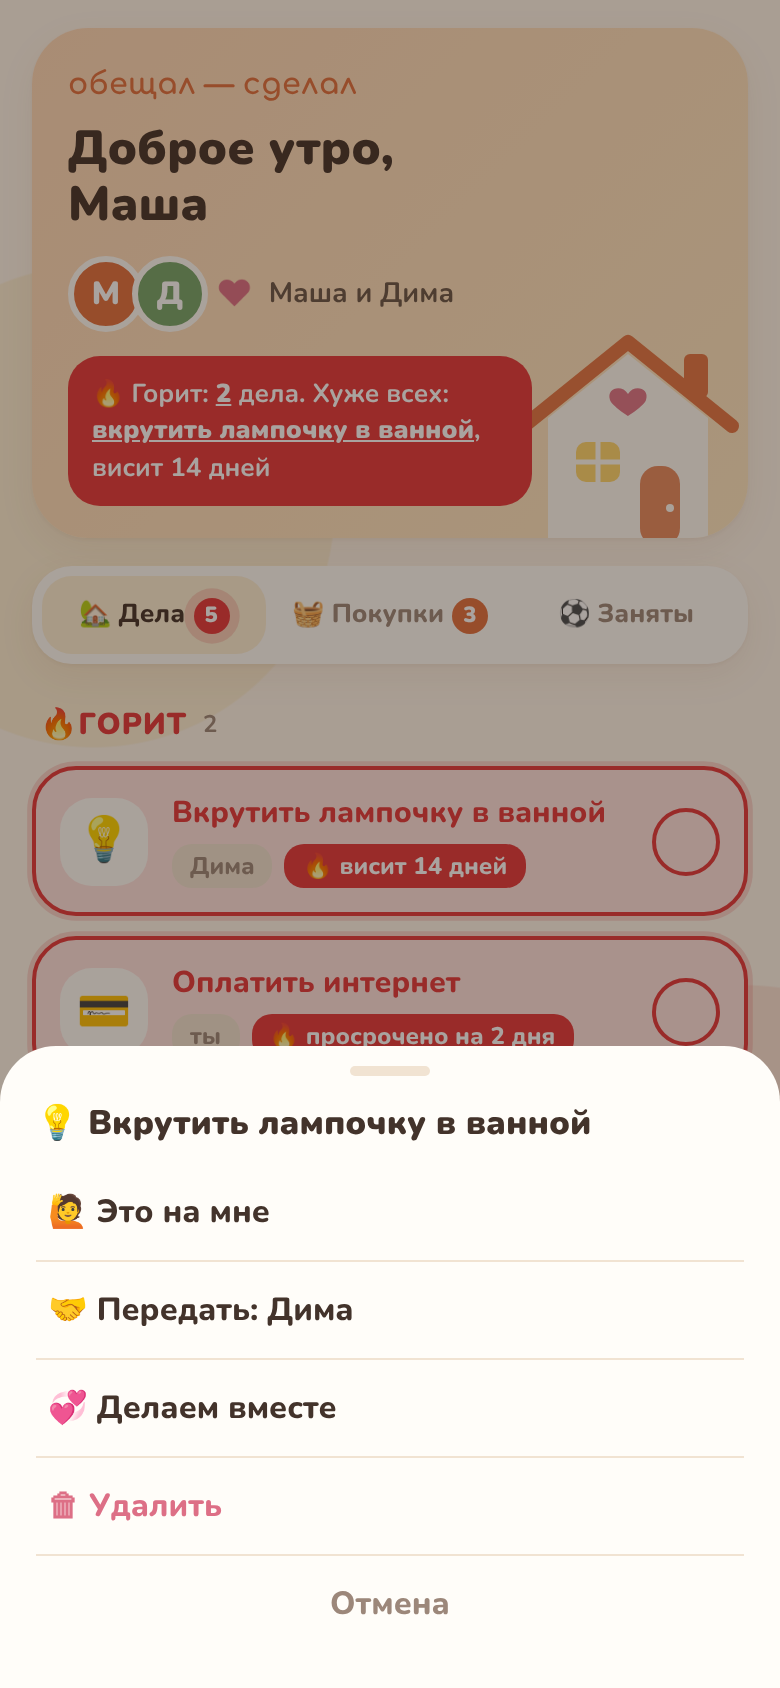
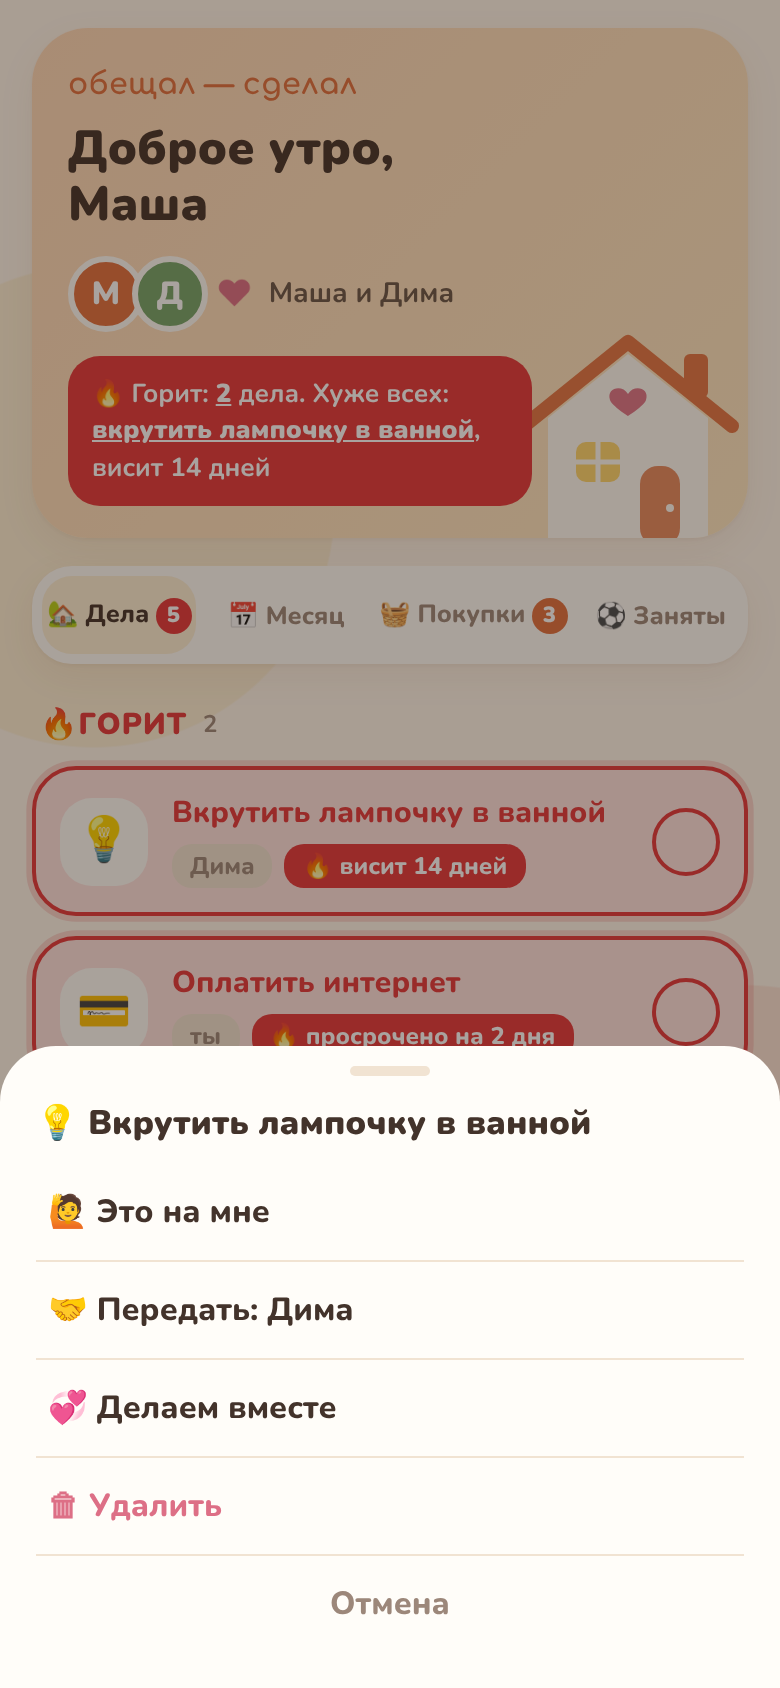
Мини-приложение: вкладка «Месяц» с календарём
Точки по дням: дела, общие планы, занятые дни (включая еженедельные), просроченное.
Нажатие на день показывает его записи.

Claude-Session: https://claude.ai/code/session_01K4WBGGq4fEqRaNC21ns6ax

Changed region(s): [[0.0615, 0.3389, 0.9231, 0.4005]]

diff --git a/webapp/index.html b/webapp/index.html
@@ -61,9 +61,9 @@ button{font-family:inherit}
 .btn{border:0;border-radius:16px;background:var(--terra);color:#fff;font-weight:800;font-size:14px;padding:11px 16px;cursor:pointer}
 
 .tabs{display:flex;gap:6px;background:var(--paper);padding:5px;border-radius:20px;margin:14px 0 6px;position:sticky;top:8px;z-index:2;box-shadow:var(--shadow)}
-.tabs button{flex:1;border:0;background:none;color:var(--muted);font-weight:800;font-size:13px;padding:10px 4px;border-radius:15px;cursor:pointer;white-space:nowrap}
+.tabs button{flex:1;border:0;background:none;color:var(--muted);font-weight:800;font-size:12.5px;padding:10px 2px;border-radius:15px;cursor:pointer;white-space:nowrap}
 .tabs button.on{background:var(--honey-soft);color:var(--ink)}
-.tabs b{display:inline-block;min-width:18px;padding:0 5px;margin-left:4px;border-radius:9px;background:var(--terra);color:#fff;font-size:11px;line-height:18px}
+.tabs b{display:inline-block;min-width:18px;padding:0 5px;margin-left:3px;border-radius:9px;background:var(--terra);color:#fff;font-size:11px;line-height:18px}
 .tabs b:empty{display:none}
 
 h3{display:flex;align-items:center;gap:8px;font-size:14px;font-weight:900;color:var(--ink);margin:20px 4px 10px}
@@ -94,12 +94,31 @@ h3 small{font-weight:700;color:var(--muted);font-size:12px}
 h3.hot{color:var(--hot);font-size:15px;letter-spacing:.5px}
 .oldest.alarm{background:var(--hot);color:#fff}
 .oldest.alarm b{color:#fff;text-decoration:underline}
-.tabs b.hot{background:var(--hot);animation:alarm 1.8s infinite}
+.tabs b.hot{background:var(--hot)}
 .check{width:34px;height:34px;border-radius:50%;border:2.5px solid var(--line);flex:none;cursor:pointer;display:grid;place-items:center;
   color:transparent;background:none;padding:0;font-size:16px;transition:all .25s}
 .check:hover{border-color:var(--sage)}
 .item.done .check{background:var(--sage);border-color:var(--sage);color:#fff;transform:scale(1.1)}
 
+.cal{background:var(--paper);border-radius:26px;padding:14px 12px 12px;margin-top:16px;box-shadow:var(--shadow)}
+.cal-head{display:flex;align-items:center;justify-content:space-between;padding:0 4px 10px}
+.cal-head b{font-size:17px;font-weight:900;text-transform:capitalize}
+.cal-head button{border:0;background:var(--honey-soft);color:var(--ink);width:34px;height:34px;border-radius:50%;font-size:18px;font-weight:900;cursor:pointer}
+.cal-grid{display:grid;grid-template-columns:repeat(7,1fr);gap:4px}
+.cal-wd{text-align:center;font-size:11px;color:var(--muted);padding-bottom:4px}
+.cal-wd.we{color:var(--terra)}
+.cal-day{border:0;background:none;color:var(--ink);border-radius:14px;padding:6px 0 5px;min-height:48px;display:flex;flex-direction:column;align-items:center;gap:4px;cursor:pointer;font:800 14px Nunito,sans-serif}
+.cal-day.out{visibility:hidden}
+.cal-day.today{background:var(--honey-soft)}
+.cal-day.sel{background:var(--terra);color:#fff}
+.cal-day.hot:not(.sel){color:var(--hot)}
+.dots{display:flex;gap:3px;height:6px}
+.dots i{width:6px;height:6px;border-radius:50%;display:block}
+.d-task{background:var(--honey)} .d-event{background:var(--rose)} .d-busy{background:var(--lav)} .d-hot{background:var(--hot)}
+.cal-day.sel .dots i{box-shadow:0 0 0 1.5px #fff}
+.legend{display:flex;gap:12px;flex-wrap:wrap;justify-content:center;font-size:11px;color:var(--muted);margin-top:10px}
+.legend span{display:flex;align-items:center;gap:4px}
+.legend i{width:7px;height:7px;border-radius:50%;display:block}
 .empty{text-align:center;color:var(--muted);padding:36px 24px;background:var(--paper);border-radius:26px;margin-top:16px;box-shadow:var(--shadow)}
 .empty .big{font-size:46px;margin-bottom:8px}
 
@@ -144,6 +163,7 @@ h3.hot{color:var(--hot);font-size:15px;letter-spacing:.5px}
 <div id="invite"></div>
 <nav class="tabs" id="tabs">
   <button data-tab="tasks" class="on">🏡 Дела<b id="n-tasks"></b></button>
+  <button data-tab="month">📅 Месяц</button>
   <button data-tab="buy">🧺 Покупки<b id="n-buy"></b></button>
   <button data-tab="busy">⚽ Заняты</button>
 </nav>
@@ -158,7 +178,7 @@ h3.hot{color:var(--hot);font-size:15px;letter-spacing:.5px}
 const tg = window.Telegram && Telegram.WebApp;
 const initData = tg ? tg.initData : "";
 const DEMO = !initData;
-let S = null, tab = "tasks";
+let S = null, tab = "tasks", calMonth = null, calDay = null;
 if (tg) { tg.ready(); tg.expand(); try { tg.setHeaderColor("bg_color"); } catch(e){} }
 
 const $ = id => document.getElementById(id);
@@ -180,17 +200,17 @@ const pic = it => (PICS.find(([re]) => re.test(it.text.toLowerCase())) || [0, KI
 function demoState(){
   return {brand:"Обещал — сделал", me:{id:1,name:"Маша"}, partner:{id:2,name:"Дима"}, invite:"", items:[
     {id:1,kind:"task",text:"Вкрутить лампочку в ванной",assignee:2,assignee_name:"Дима",author:1,when:"висит 14 дней",hot:true,warnings:[]},
-    {id:11,kind:"task",text:"Оплатить интернет",assignee:1,assignee_name:"Маша",author:2,when:"просрочено на 2 дня",hot:true,warnings:[]},
-    {id:2,kind:"task",text:"Записать кота к ветеринару",assignee:1,assignee_name:"Маша",author:2,when:"завтра",warnings:[]},
-    {id:3,kind:"event",text:"Едем к маме на дачу",assignee:null,assignee_name:"оба",author:1,when:"сб 26.10",
-     warnings:["⚠ Осторожно: сб 26.10 Дима занят(а), там «Баня с друзьями». Планировать на этот день совместное — смелый поступок."]},
-    {id:4,kind:"task",text:"Повесить полку в прихожей",assignee:2,assignee_name:"Дима",author:1,when:"вс 27.10 в 12:00",warnings:[]},
+    {id:11,kind:"task",text:"Оплатить интернет",assignee:1,assignee_name:"Маша",author:2,when:"просрочено на 2 дня",day:"2026-10-22",hot:true,warnings:[]},
+    {id:2,kind:"task",text:"Записать кота к ветеринару",assignee:1,assignee_name:"Маша",author:2,when:"завтра",day:"2026-10-25",warnings:[]},
+    {id:3,kind:"event",text:"Едем к маме на дачу",assignee:null,assignee_name:"оба",author:1,when:"сб 31.10",day:"2026-10-31",
+     warnings:["⚠ Осторожно: сб 31.10 Дима занят(а), там «Баня с друзьями». Планировать на этот день совместное — смелый поступок."]},
+    {id:4,kind:"task",text:"Повесить полку в прихожей",assignee:2,assignee_name:"Дима",author:1,when:"вс 01.11 в 12:00",day:"2026-11-01",warnings:[]},
     {id:5,kind:"buy",text:"Батарейки AA",assignee:null,assignee_name:"оба",author:1,when:"",warnings:[]},
     {id:6,kind:"buy",text:"Молоко",assignee:null,assignee_name:"оба",author:2,when:"",warnings:[]},
     {id:7,kind:"buy",text:"Корм для кота",assignee:null,assignee_name:"оба",author:1,when:"",warnings:[]},
-    {id:8,kind:"busy",text:"Футбол",assignee:2,assignee_name:"Дима",author:2,when:"каждый четверг",warnings:[]},
-    {id:9,kind:"busy",text:"Баня с друзьями",assignee:2,assignee_name:"Дима",author:2,when:"сб 26.10",warnings:[]},
-    {id:10,kind:"busy",text:"Маникюр",assignee:1,assignee_name:"Маша",author:1,when:"пт 25.10 в 18:00",warnings:[]},
+    {id:8,kind:"busy",text:"Футбол",assignee:2,assignee_name:"Дима",author:2,when:"каждый четверг",weekday:3,warnings:[]},
+    {id:9,kind:"busy",text:"Баня с друзьями",assignee:2,assignee_name:"Дима",author:2,when:"сб 31.10",day:"2026-10-31",warnings:[]},
+    {id:10,kind:"busy",text:"Маникюр",assignee:1,assignee_name:"Маша",author:1,when:"пт 30.10 в 18:00",day:"2026-10-30",warnings:[]},
   ]};
 }
 
@@ -267,6 +287,7 @@ function render(){
   $("n-tasks").classList.toggle("hot", hot.length > 0);
   $("n-buy").textContent = by("buy").length || "";
   document.querySelectorAll(".tabs button").forEach(b => b.classList.toggle("on", b.dataset.tab === tab));
+  if (tab === "month") { $("list").innerHTML = monthHtml(); return; }
   const items = by(tab);
   let html;
   if (!items.length) {
@@ -287,9 +308,45 @@ function render(){
   $("list").innerHTML = html;
 }
 
+// ---------- month calendar ----------
+const iso = d => `${d.getFullYear()}-${String(d.getMonth() + 1).padStart(2, "0")}-${String(d.getDate()).padStart(2, "0")}`;
+const WD = ["пн", "вт", "ср", "чт", "пт", "сб", "вс"];
+
+function onDay(dayIso){
+  const wd = (new Date(dayIso + "T12:00").getDay() + 6) % 7;
+  return S.items.filter(i => i.kind !== "buy" && (i.day === dayIso || (i.kind === "busy" && i.weekday === wd)));
+}
+
+function monthHtml(){
+  const now = new Date();
+  if (!calMonth) calMonth = new Date(now.getFullYear(), now.getMonth(), 1);
+  if (!calDay) calDay = iso(now);
+  const y = calMonth.getFullYear(), m = calMonth.getMonth();
+  const first = (new Date(y, m, 1).getDay() + 6) % 7, days = new Date(y, m + 1, 0).getDate();
+  const title = calMonth.toLocaleDateString("ru-RU", {month: "long", year: "numeric"}).replace(" г.", "");
+  let cells = WD.map((w, i) => `<div class="cal-wd${i > 4 ? " we" : ""}">${w}</div>`).join("");
+  for (let i = 0; i < first; i++) cells += `<div class="cal-day out"></div>`;
+  for (let d = 1; d <= days; d++) {
+    const key = iso(new Date(y, m, d)), list = onDay(key);
+    const kinds = [...new Set(list.map(i => i.hot ? "hot" : i.kind))].slice(0, 4);
+    const cls = [key === iso(now) ? "today" : "", key === calDay ? "sel" : "", kinds.includes("hot") ? "hot" : ""].join(" ");
+    cells += `<button class="cal-day ${cls}" data-day="${key}">${d}<span class="dots">${kinds.map(k => `<i class="d-${k}"></i>`).join("")}</span></button>`;
+  }
+  const sel = onDay(calDay), sd = new Date(calDay + "T12:00");
+  const label = sd.toLocaleDateString("ru-RU", {weekday: "long", day: "numeric", month: "long"});
+  const list = sel.length ? sel.map(itemHtml).join("") : `<div class="empty" style="margin-top:0">Свободный день. Подозрительно.</div>`;
+  return `<div class="cal"><div class="cal-head"><button data-cal="-1" aria-label="Назад">‹</button><b>${esc(title)}</b><button data-cal="1" aria-label="Вперёд">›</button></div>
+    <div class="cal-grid">${cells}</div>
+    <div class="legend"><span><i class="d-task"></i>дела</span><span><i class="d-event"></i>вместе</span><span><i class="d-busy"></i>кто-то занят</span><span><i class="d-hot"></i>горит</span></div></div>
+    <h3 style="text-transform:none">📌 ${esc(label)} <small>${sel.length || ""}</small></h3>${list}`;
+}
+
 $("tabs").onclick = e => { const b = e.target.closest("button"); if (b) { tab = b.dataset.tab; render(); } };
 
 $("list").onclick = async e => {
+  const nav = e.target.closest("[data-cal]"), day = e.target.closest("[data-day]");
+  if (nav) { calMonth = new Date(calMonth.getFullYear(), calMonth.getMonth() + +nav.dataset.cal, 1); render(); return; }
+  if (day) { calDay = day.dataset.day; render(); return; }
   const d = e.target.closest("[data-done]");
   if (d) {
     const id = +d.dataset.done, el = $("i" + id);

diff --git a/web.py b/web.py
@@ -45,6 +45,7 @@ def _item(row, today) -> dict:
         "assignee": row["assignee_id"], "assignee_name": planner.name(row["assignee_id"]),
         "author": row["author_id"], "when": planner.when_text(row, today), "day": row["day"],
         "hot": planner.is_hot(row, today),
+        "weekday": row["weekday"],
         "warnings": planner.warnings(row),
     }
 
